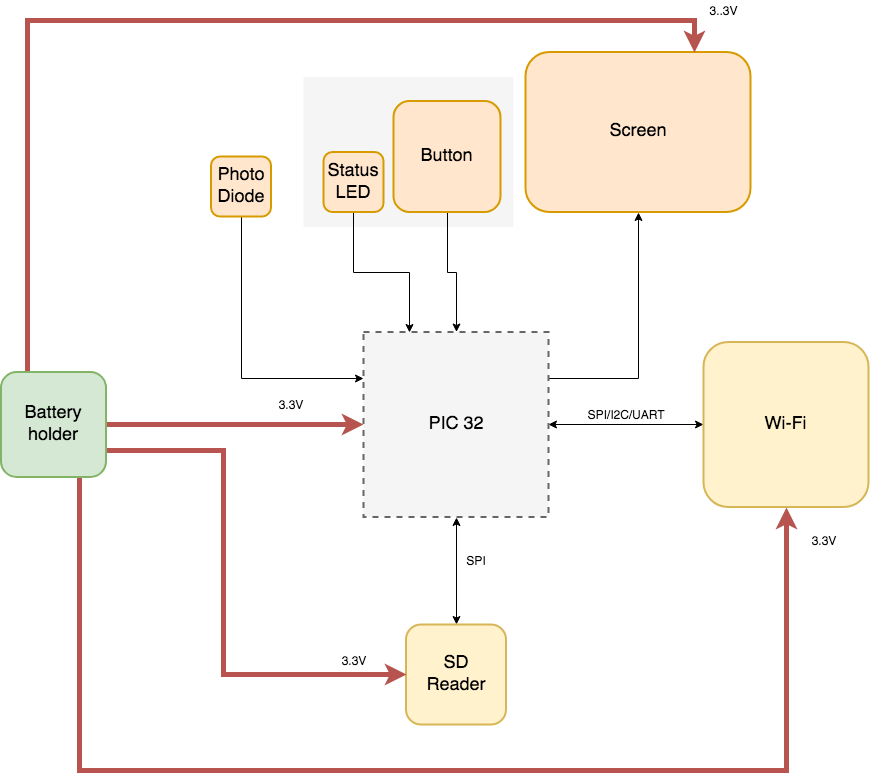
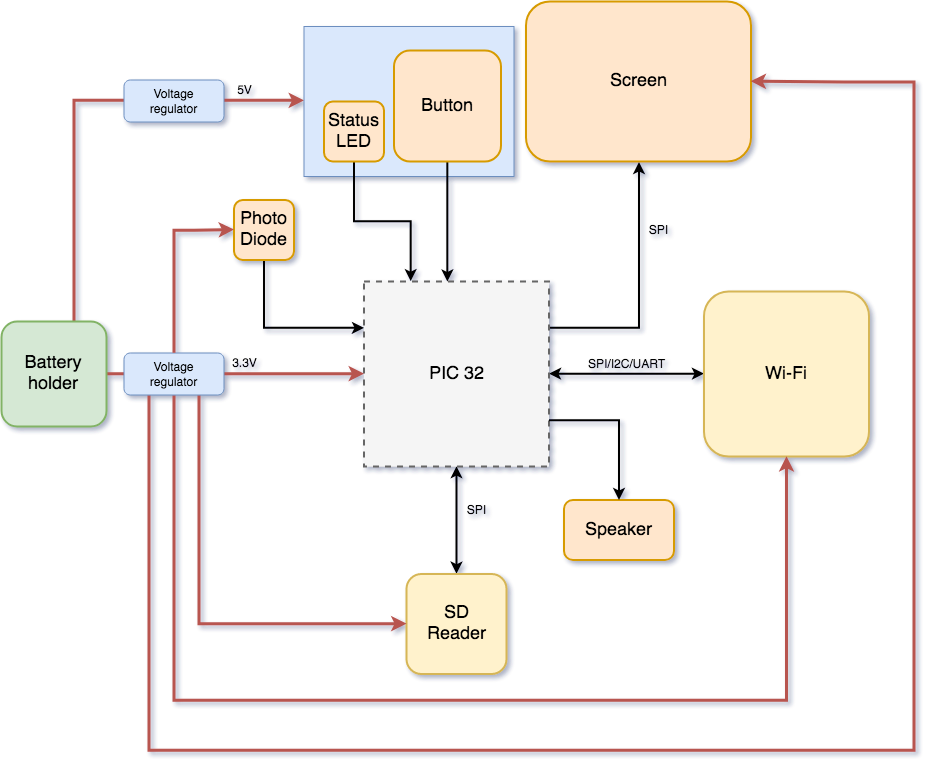
Latex_Manual and block-diagram

diff --git a/Latex_Manual/POP.tex b/Latex_Manual/POP.tex
@@ -2,72 +2,175 @@
 10pt,
 a4paper,
 ]{article}
-\usepackage{eurosym,natbib,alifeconf,hyperref}
+\usepackage{eurosym,natbib,alifeconf}
+\usepackage[pdfborder={0 0 0},pdfhighlight=/P]{hyperref}
 \usepackage[landscape,twocolumn]{geometry}
 \title{The Pop Button}
 \author{Kentin$^{1}$ \and Nil$^{2}$ }
 
 \begin{document}
 \maketitle
-
-\section{In a word}
-
-The pop button is a device that aim to be your daily companion for noting every furniture you need anytime you think about it
-
+\center{
+	\includegraphics[width=7cm]{pop_button.png}
+}
 
 \section{Introduction}
-
-The device needs a "rotate and push" button, a wi-fi module to communicate with a server, a screen, a battery holder and of course a PIC32 System on Chip 
-
-\begin{table}[!hbt]
-\center{
-\begin{tabular}{|c|c|c|}\hline
-component & price(\euro) & consumption\\ \hline\hline
-
-\href{http://fr.farnell.com/microchip/pic32mx174f256b-i-so/mcu-32-bits-pic32mx-72mhz-soic/dp/2775021?st=PIC32MX174F256B}
-{PIC32MX174F256B-I/SO} & 3.48 & $\sim$ 200mA \\
-
-\href{http://fr.farnell.com/microchip/atwinc1500-mr210pb1952/mod-iot-smartconnect-2-472ghz/dp/2759346?st=atwin}
-{ATWINC1500}  & 6.61 & 70mA / 172mA \\
-
-\href{http://fr.farnell.com/midas/mccog128064b12w-fptlw/afficheur-lcd-graphique-128x64/dp/2664759}
-{MCCOG128064B12W} & 8.69 & 40mA \\
-
-\href{http://fr.farnell.com/bourns/pel12d-2226f-s3024/rotary-encoder-incremental-24/dp/1857558?st=rotary\%20encoder}
-{PEL12D-2226F-S3024} & 1.88 & 10mA\\
-
-\href{http://fr.farnell.com/optek-technology/opb732/capteur-reflectif-pcb/dp/1226877}
-{OPB732} & 3.2 & 50mA\\
-
-\hline
-total & 23,87 & 370mA / 472mA\\
-\hline
-\end{tabular}
-}
-\caption{basic specifications}
-\end{table}
+The device consist of a "rotate and push" button, a wi-fi module to communicate with a http server, a screen, a battery holder and of course a PIC32 System on Chip\\
+Once turned on the device update his database from the server, load it into the ram and disconnect itself.\\
+After 10 seconds the screen goes down and the pic32 goes in sleep mode waiting for the photo-diode or the button to turn it on again.\\
+When turned on the wi-fi module try to connect to his base and the screen shows the start of the list, the user can either choose a product he wants to be added to his order list or long push the button to enter the parameters.\\
+If the user choose a item this one is added to a temporary stack waiting for the wi-fi to connect, if the connection has not been established the user is warned by a sound and the encoder start to flash red, if everything gone right another sound inform the user that the request had been proceeded  
+The parameters menu allows the user to change the contrast of the screen the size of the font and enter the wi-fi password and ssid
 
 \section{Block Diagram}
 This is a basic block diagram describing the architecture of the device
-\includegraphics[width=3.7in]{block-diagram.png}
+\begin{center}
+	\includegraphics[width=10cm]{block-diagram.png}
+\end{center}
 
-\section{How it works}
+\section{Manual}
+\subsection{What it does}
 The principal purpose of the pop button is to choice in a list what we want to order for the next time you go to the shop or do your weekly/monthly order to you preferred provider
-
+\subsection{Basic use}
 \begin{itemize}
-    \item Thanks to his photodiode turning on the device can be accomplished by passing your hand in front of it or directly pushing the button once.
-    \item Once the device is on you can see some items on the screen, you can easily change the current item by turning the rotary button, once you found the desired item you push the button and it will light up green or red depending on the possibility to order your choice.
-    \item The list is composed on the server and sent to the device thanks to his wi-fi module, it is stored in the sd card so the list can be long 
-    \item In order to connect the device to your network you can either use the SDcard to change the configuration file with your computer or long push the button and enter the password within a appropriate menu using the button
+	\item You have to activate the switch inside the Pop Button in order to use it, it is placed next to the battery holder and the SD card slot. 
+	          
+	\item Thanks to his photo-diode turning on the device can be accomplished by passing your hand in front of it or directly pushing the button once.
+	          
+	\item Once the device is on you can see some items on the screen, you can easily change the current one by turning the rotary button, once you found the object of your desire you can push the button and it will light up green or red depending on the possibility to order your choice.
+	          
+	\item The list is composed on the server and sent to the device thanks to his wi-fi module, it is stored in the SD card so the list can be long 
+	          
+	\item In order to connect the device to your network you can either use the SD card to change the configuration file with your computer or long push the button ,enter the appropriated menu and enter the password using the button
+	          
 \end{itemize}
 
+\section{UART}
+UART stand for "Universal Asynchronous Receiver Transmitter" it is a little circuit in a micro-controller which transmit and receive serial data.
+As it doesn't use clock it needs to work on a fixed frequency known as the baud rate, the baud rate is explained as bits per second (bps) and both peripherals needs to work on the same one in order to communicate.
+UART transmitted data are packets which consist of 1 start bit, 5 to 9 data bits, an optional parity bit, and 1 or 2 stop bits.
+\begin{center}
+	\includegraphics[width=9cm]{UART_packet.png}
+\end{center}
+
+\section{SPI}
+SPI stand for "Serial Peripheral Interface" it is a communication protocol synchronous and full-duplex which means that it uses a clock and it can receive and send at the same time\\
+\subsection{}
+This protocol need 3 pins in order to work and uses one pin more for each slaves to select them 
+\begin{itemize}
+	\item SCLK $\Rightarrow$ Serial Clock\\
+	      (SCK, SCL)
+	\item MOSI $\Rightarrow$ Master Output, Slave Input\\
+	      (SDI, DI, SI)
+	\item MISO $\Rightarrow$ Master Input, Slave Output\\
+	      (SDO, SDA, DO, SO)
+	\item SS $\Rightarrow$ Slave Select\\
+	      (nCS, CS, nSS, STE, CSN)
+\end{itemize}
+There is 4 modes available to use the clock depending on the peripherals properties\\
+\begin{table}[!hbt]
+	\begin{center}
+		\begin{tabular}{|c|c|c|}\hline
+			SPI mode & CPOL & CPHA \\\hline\hline
+			0        & 0    & 0    \\\hline
+			1        & 0    & 1    \\\hline
+			2        & 1    & 0    \\\hline
+			3        & 1    & 1    \\\hline
+		\end{tabular}
+	\end{center}
+	\caption{CPOL = Clock Polarity CPHA = Clock Phase}
+\end{table}
+
+The master start by pulling down the Slave Select and starting the clock, then it send a Read/Write bit, a multiple/single bit an adress it wants to access. Finnaly it reads or write the actual data
+
+
+\section{\texorpdfstring{i$^{2}$C}{}}
+I$^2$C or IIC stands for Inter-Integrated Circuit, it is a protocol which is synchronous, half-duplex, multi-master and multi-slave. It can adress between 127 and 1024 devices but is slower than spi
+\subsection{}
+This protocol only needs 2 pins
+\begin{itemize}
+	\item SCL $\Rightarrow$ Serial Clock Line\\
+	\item SDA $\Rightarrow$ Serial Data Line
+\end{itemize}
+\subsection{timeline}
+First the master send a start bit by pulling down the SDA right before the clock, then send the device address (7 or 10 bits), a Read/Write bit and wait for the acknowledgment of the slave. Then send the real data which can be the data adress of the device wait for acknowledgment and start again until the stop signal by pulling up the SDA right after the clock. 
+\includegraphics[width=10cm]{i2c.png}
+
+
+\vskip2.5cm
+
+\begin{center}
+	\begin{@twocolumnfalse}
+		\begin{table}[!hbt]
+			\center{
+				\begin{tabular}{|c|c|c|c|c|c|}\hline
+					component & reference & price(\euro) & consumption & Frequency & Datasheets \\ \hline\hline
+					
+					SoC &
+					\href{http://fr.farnell.com/microchip/pic32mx174f256b-i-so/mcu-32-bits-pic32mx-72mhz-soic/dp/2775021?st=PIC32MX174F256B}
+					{PIC32MX174F256B-I/SO} & 3.48 & $\sim$ 200mA  @ 3.3V = 660mW &
+					72Mhz &
+					\href{http://www.farnell.com/datasheets/2244305.pdf}{\includegraphics[height=1em]{pdf.png}}
+					\href{http://ww1.microchip.com/downloads/en/DeviceDoc/80000739A.pdf}{\includegraphics[height=1em]{pdf.png}}\\
+					
+					Wi-Fi &
+					\href{http://fr.farnell.com/microchip/atwinc1500-mr210pb1952/mod-iot-smartconnect-2-472ghz/dp/2759346?st=atwin}
+					{ATWINC1500}  & 6.61 & 70mA / 172mA @ 3.3V = 564mW &
+					26Mhz &
+					\href{http://www.farnell.com/datasheets/2286658.pdf}{\includegraphics[height=1em]{pdf.png}}\\
+					
+					Screen &
+					\href{http://fr.farnell.com/midas/mccog128064b12w-fptlw/afficheur-lcd-graphique-128x64/dp/2664759}
+					{MCCOG128064B12W} & 8.69 & 40mA @ 3.3V = 132mW &
+					64hz &
+					\href{http://www.farnell.com/datasheets/2151564.pdf}{\includegraphics[height=1em]{pdf.png}}\\
+					
+					Rotary Encoder &
+					\href{http://fr.farnell.com/bourns/pel12d-2226f-s3024/rotary-encoder-incremental-24/dp/1857558?st=rotary\%20encoder}
+					{PEL12D-2226F-S3024} & 1.88 & 10mA @ 5V = 50mW & 
+					- &
+					\href{http://www.farnell.com/datasheets/1923820.pdf}{\includegraphics[height=1em]{pdf.png}}\\
+					
+					Photo-Diode &
+					\href{http://fr.farnell.com/optek-technology/opb732/capteur-reflectif-pcb/dp/1226877}
+					{OPB732} & 3.2 & 50mA @ 3.3V = 165mW &
+					- &
+					\href{http://www.farnell.com/datasheets/2331536.pdf}{\includegraphics[height=1em]{pdf.png}}\\
+					    
+					Buzzer &
+					\href{http://fr.farnell.com/tdk/ps1240p02ct3/buzze-piezoelectronique-3v-4khz/dp/2803350}
+					{KPEG242} & 0.591 & 7mA @ 12V = 0.084 &
+					- &
+					\href{http://fr.farnell.com/kingstate/kpeg242/piezo-buzzer-pin-type/dp/1502726}{\includegraphics[height=1em]{pdf.png}}\\
+					    
+					Voltage Regulator 3.3V &
+					\href{http://fr.farnell.com/texas-instruments/ua78m33cdcy/regul-de-tension-2vdo-0-5a-3-3v/dp/2296031?st=voltage\%20regulator}
+					{UA78M33CDCY} &  0,461 & ? &
+					- &
+					\href{http://www.ti.com/lit/ds/symlink/ua78m.pdf}{\includegraphics[height=1em]{pdf.png}}\\
+					    
+					Voltage Regulator 5V &
+					\href{http://fr.farnell.com/microchip/mic5219-5-0ym5-tr/ldo-0-5vdo-0-5a-5v-1-5sot23/dp/2510257}
+					{MIC5219-5.0YM5-TR} & 0,816  & ? &
+					- &
+					\href{http://www.farnell.com/datasheets/683599.pdf}{\includegraphics[height=1em]{pdf.png}}\\
+					    
+					\hline
+					total && 25.728 & 377mA / 479mA & \\
+					\hline
+				\end{tabular}
+			}
+			\caption{basic specifications}
+		\end{table}
+	\end{@twocolumnfalse}
+\end{center}
+
+
 \footnotesize
-\bibliographystyle{apalike}
-\bibliography{sample}
 {
-\mbox{}\\
-$^1$qdurot \\
-$^2$nburcion \\
+	\mbox{}\\
+	$^1$\href{https://profile.intra.42.fr/users/qdurot}{qdurot} \\
+	$^2$\href{https://profile.intra.42.fr/users/nburcion}{nburcion}
 }
 
 \end{document}
